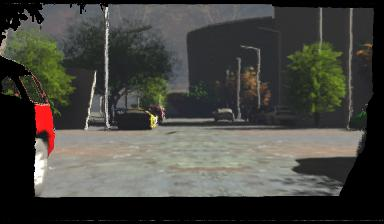
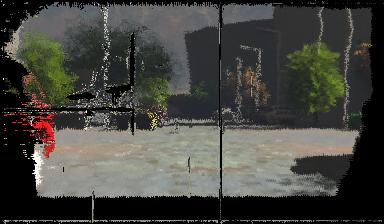
add depth consistency loss

diff --git a/losses_helper.py b/losses_helper.py
@@ -4,47 +4,13 @@ import numpy as np
 import lmbspecialops as sops
 
 
-# warp the flow values to the image.
-def flow_warp(img,flow):
 
-  # returns [16,224,384,6]
-  input_size = img.get_shape().as_list()
-
-  x = list(range(0,input_size[1]))
-  y = list(range(0,input_size[2]))
-  X, Y = tf.meshgrid(x, y)
-
-  # X = Y = 224,384 
-
-  # converting shape of X = Y to (16,224,384), because flow size is (16,224,384,*)
-  X = tf.expand_dims(X,0)
-  Y = tf.expand_dims(Y,0)
-
-
-  # X = tf.pad(X,tf.constant([[8,7],[0,0],[0,0]]),"CONSTANT")
-  # Y = tf.pad(Y,tf.constant([[8,7],[0,0],[0,0]]),"CONSTANT")
-
-  X = tf.transpose(X,[0,2,1])
-  Y = tf.transpose(Y,[0,2,1])
-
-  X = tf.cast(X,np.float32) + flow[:,:,:,0]
-  Y = tf.cast(Y,np.float32) + flow[:,:,:,1]
-
-  con = tf.stack([X,Y])
-
-  result = tf.transpose(con,[1,2,3,0])
-
-  return tf.contrib.resampler.resampler(img,result)
 
 def photoconsistency_loss(img,predicted_flow, weight=100):
 
   with tf.variable_scope('photoconsistency_loss'):
 
-    img1 = img[:,:,:,0:3]
-    img2 = img[:,:,:,5:8]
-
-    # warping using predicted flow
-    warped_img = flow_warp(img2,predicted_flow)
+    warped_img = get_flow_warp(img,predicted_flow)
 
     img2 = get_occulation_aware_image(img2,warped_img)
     # img2 = tf.Print(img2,[img2],summarize=10000,message="msg_before")
@@ -52,7 +18,6 @@ def photoconsistency_loss(img,predicted_flow, weight=100):
 
     pc_loss = tf.losses.mean_squared_error(warped_img,img1)
 
-    # tf.losses.compute_weighted_loss(pc_loss,weights=weight)
 
   return pc_loss
 
@@ -71,7 +36,7 @@ def forward_backward_loss(img,predicted_flow,weight=100):
 
     tf.losses.compute_weighted_loss(fb_loss,weights=weight)
 
-  return pc_loss
+  return fb_loss
 
 # defined here :: https://arxiv.org/pdf/1702.02295.pdf
 def endpoint_loss(gt_flow,predicted_flow,weight=1000):
@@ -103,19 +68,18 @@ def endpoint_loss(gt_flow,predicted_flow,weight=1000):
   return epe_loss
 
 
-def depth_loss(gt_flow,predicted_flow,weight=300):
+def depth_consistency_loss(img,predicted_flow,weight=300):
 
-  with tf.variable_scope('depth_loss'):
+  with tf.variable_scope('depth_consistency_loss'):
 
-    gt_flow = tf.stop_gradient(gt_flow)
+    warped_depth_img = get_flow_warp(img,predicted_flow)
 
-    # L1 loss on depth
-    gt_w = tf.slice(gt_flow,[0,0,0,2],[-1,-1,-1,1])
-    pred_w = tf.slice(predicted_flow,[0,0,0,2],[-1,-1,-1,1])
+    # loss = w - Z_1(x+u,y+v) + Z_0(x,y)
+    dc_loss = predicted_flow[:,:,:,2] - warped_depth_img + img[:,:,:,3]
 
-    depth_loss = tf.losses.absolute_difference(gt_w,pred_w,weights=weight)
+    tf.losses.compute_weighted_loss(dc_loss,weights=weight)
 
-    return depth_loss
+    return dc_loss
 
 
 
@@ -202,3 +166,46 @@ def get_occulation_aware_image(img,warped_img):
     masked_img = masked_img / masked_img
     masked_img = sops.replace_nonfinite(masked_img)
     return masked_img * img
+
+
+def get_flow_warp(img,prediced_flow,for_depth=False):
+
+    if for_depth:
+      img2 = img[:,:,:,7]
+    else:
+      img2 = img[:,:,:,5:8]
+
+    # warping using predicted flow
+    return flow_warp(img2,predicted_flow)
+
+# warp the flow values to the image.
+def flow_warp(img,flow):
+
+  # returns [16,224,384,6]
+  input_size = img.get_shape().as_list()
+
+  x = list(range(0,input_size[1]))
+  y = list(range(0,input_size[2]))
+  X, Y = tf.meshgrid(x, y)
+
+  # X = Y = 224,384 
+
+  # converting shape of X = Y to (16,224,384), because flow size is (16,224,384,*)
+  X = tf.expand_dims(X,0)
+  Y = tf.expand_dims(Y,0)
+
+
+  # X = tf.pad(X,tf.constant([[8,7],[0,0],[0,0]]),"CONSTANT")
+  # Y = tf.pad(Y,tf.constant([[8,7],[0,0],[0,0]]),"CONSTANT")
+
+  X = tf.transpose(X,[0,2,1])
+  Y = tf.transpose(Y,[0,2,1])
+
+  X = tf.cast(X,np.float32) + flow[:,:,:,0]
+  Y = tf.cast(Y,np.float32) + flow[:,:,:,1]
+
+  con = tf.stack([X,Y])
+
+  result = tf.transpose(con,[1,2,3,0])
+
+  return tf.contrib.resampler.resampler(img[:,:,:,2],result)

diff --git a/network.py b/network.py
@@ -146,7 +146,6 @@ def train_network(image_pair):
         conv4 = convrelu2(name='conv4', inputs=conv3, filters=256, kernel_size=3, stride=2,activation=tf.nn.leaky_relu)
         conv5 = convrelu2(name='conv5', inputs=conv4, filters=512, kernel_size=3, stride=2,activation=tf.nn.leaky_relu)
 
-
     # predict flow
     with tf.variable_scope('predict_flow5'):
         predict_flow4 = _predict_flow(conv5)
